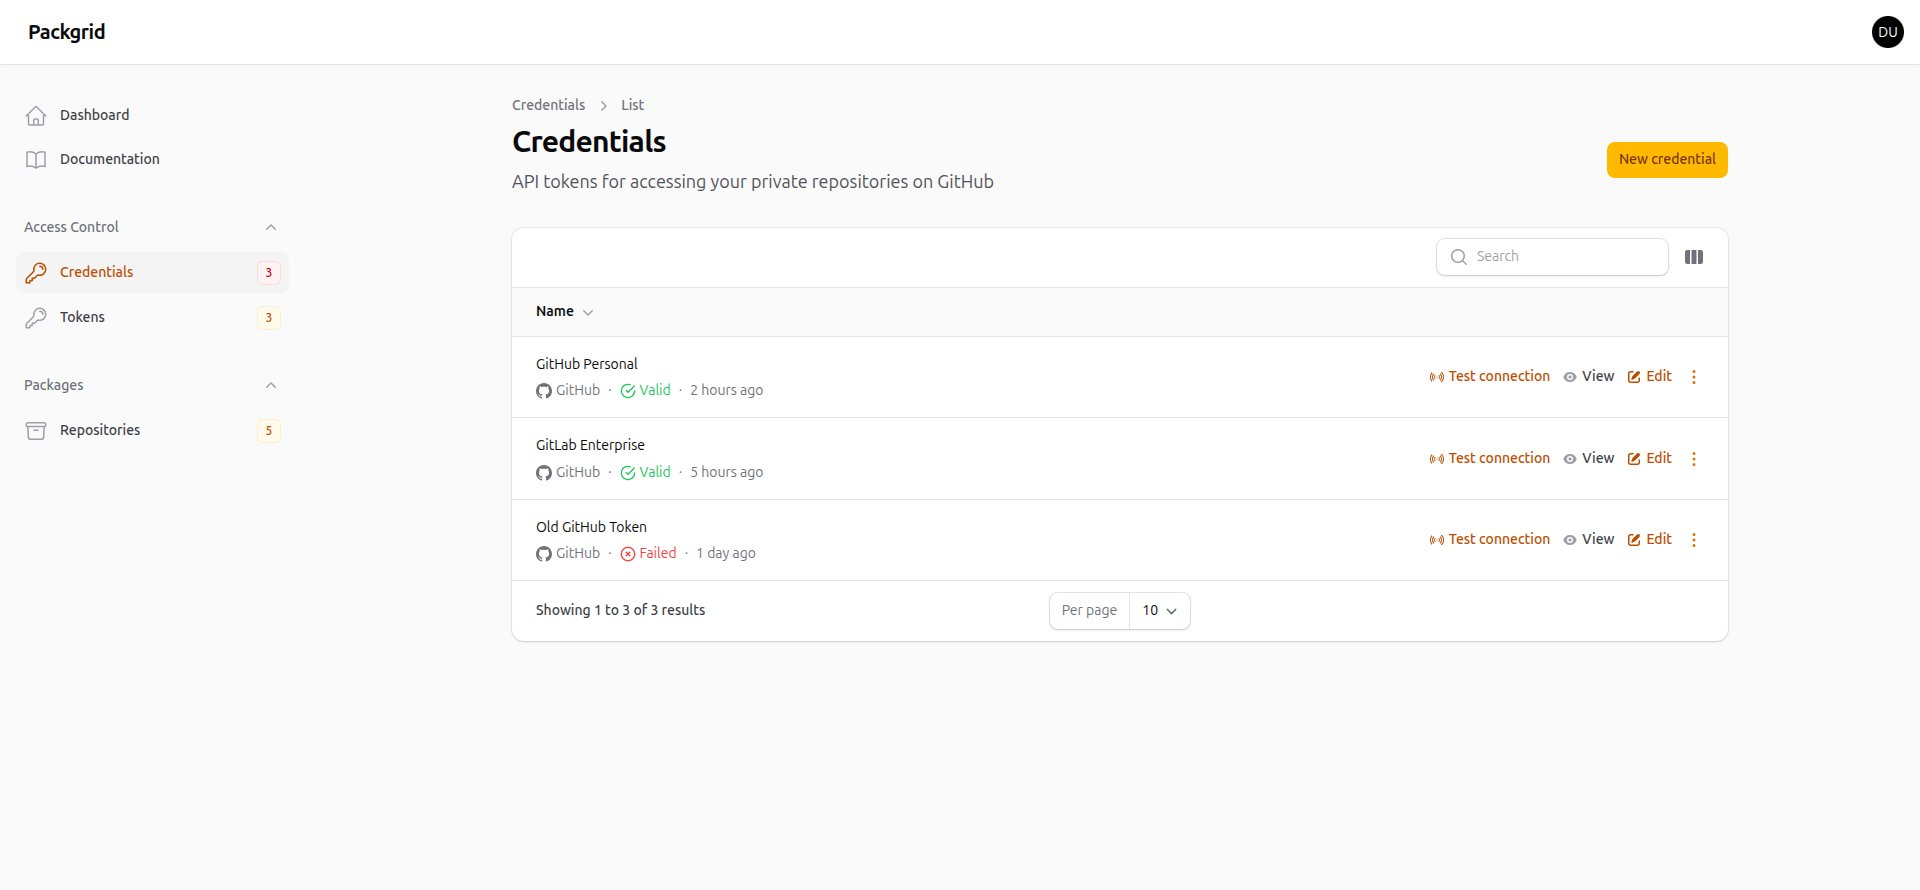
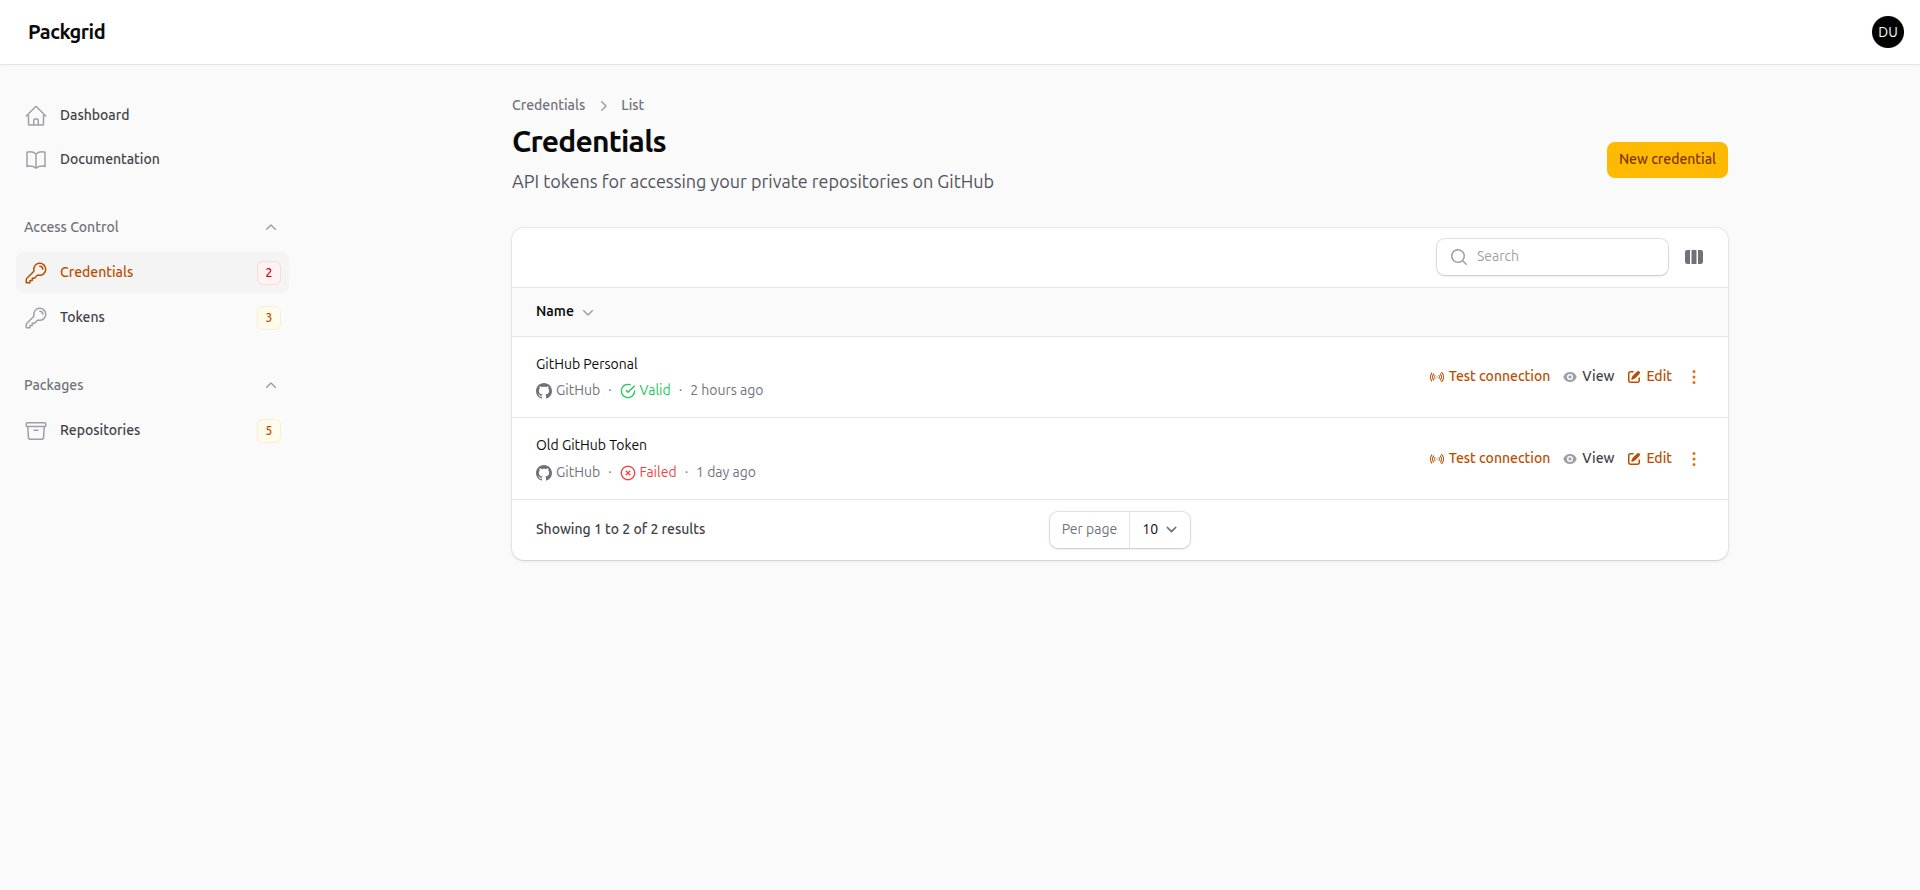
fix: remove GitLab credential from demo seeder
Keep only GitHub credentials in the demo data for consistency

diff --git a/database/seeders/DatabaseSeeder.php b/database/seeders/DatabaseSeeder.php
@@ -39,14 +39,6 @@ class DatabaseSeeder extends Seeder
             'last_checked_at' => now()->subHours(2),
         ]);
 
-        $gitlabCredential = Credential::factory()->create([
-            'name' => 'GitLab Enterprise',
-            'provider' => 'gitlab',
-            'username' => 'demo-enterprise',
-            'status' => CredentialStatus::Ok,
-            'last_checked_at' => now()->subHours(5),
-        ]);
-
         $failedCredential = Credential::factory()->create([
             'name' => 'Old GitHub Token',
             'provider' => 'github',
@@ -111,7 +103,7 @@ class DatabaseSeeder extends Seeder
             'url' => 'https://github.com/acme-corp/vue-design-system',
             'visibility' => RepositoryVisibility::PrivateRepo,
             'format' => PackageFormat::Npm,
-            'credential_id' => $gitlabCredential->id,
+            'credential_id' => $githubCredential->id,
             'enabled' => true,
             'package_count' => 8,
             'last_sync_at' => now()->subHours(3),
